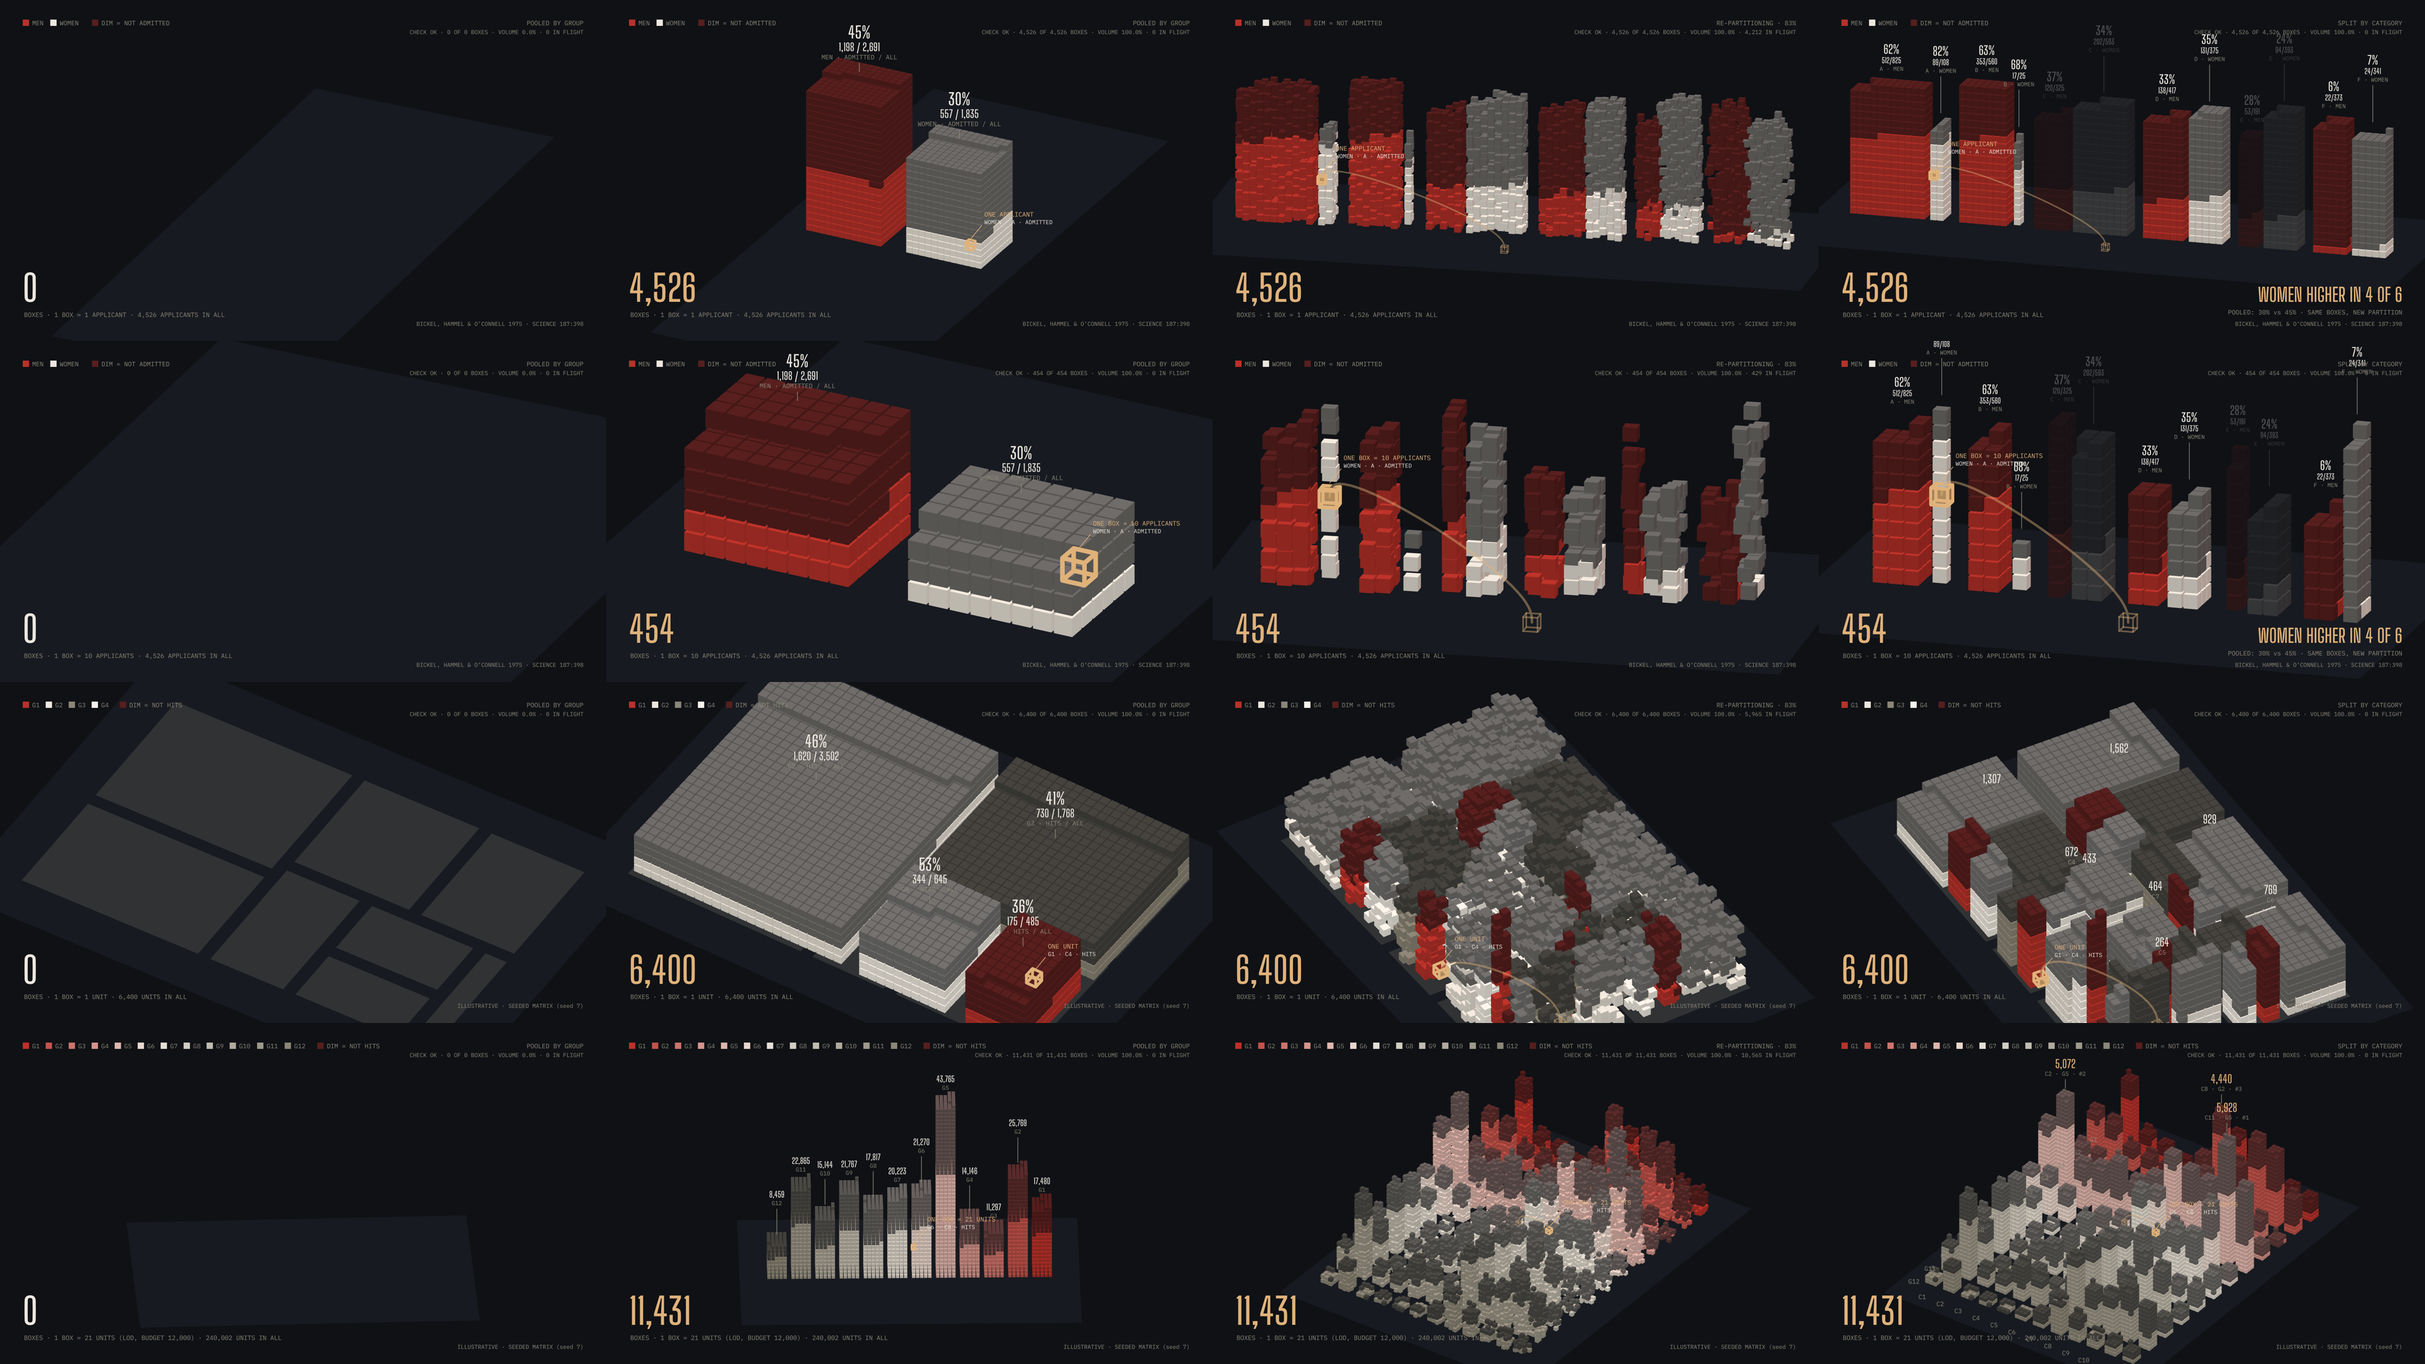
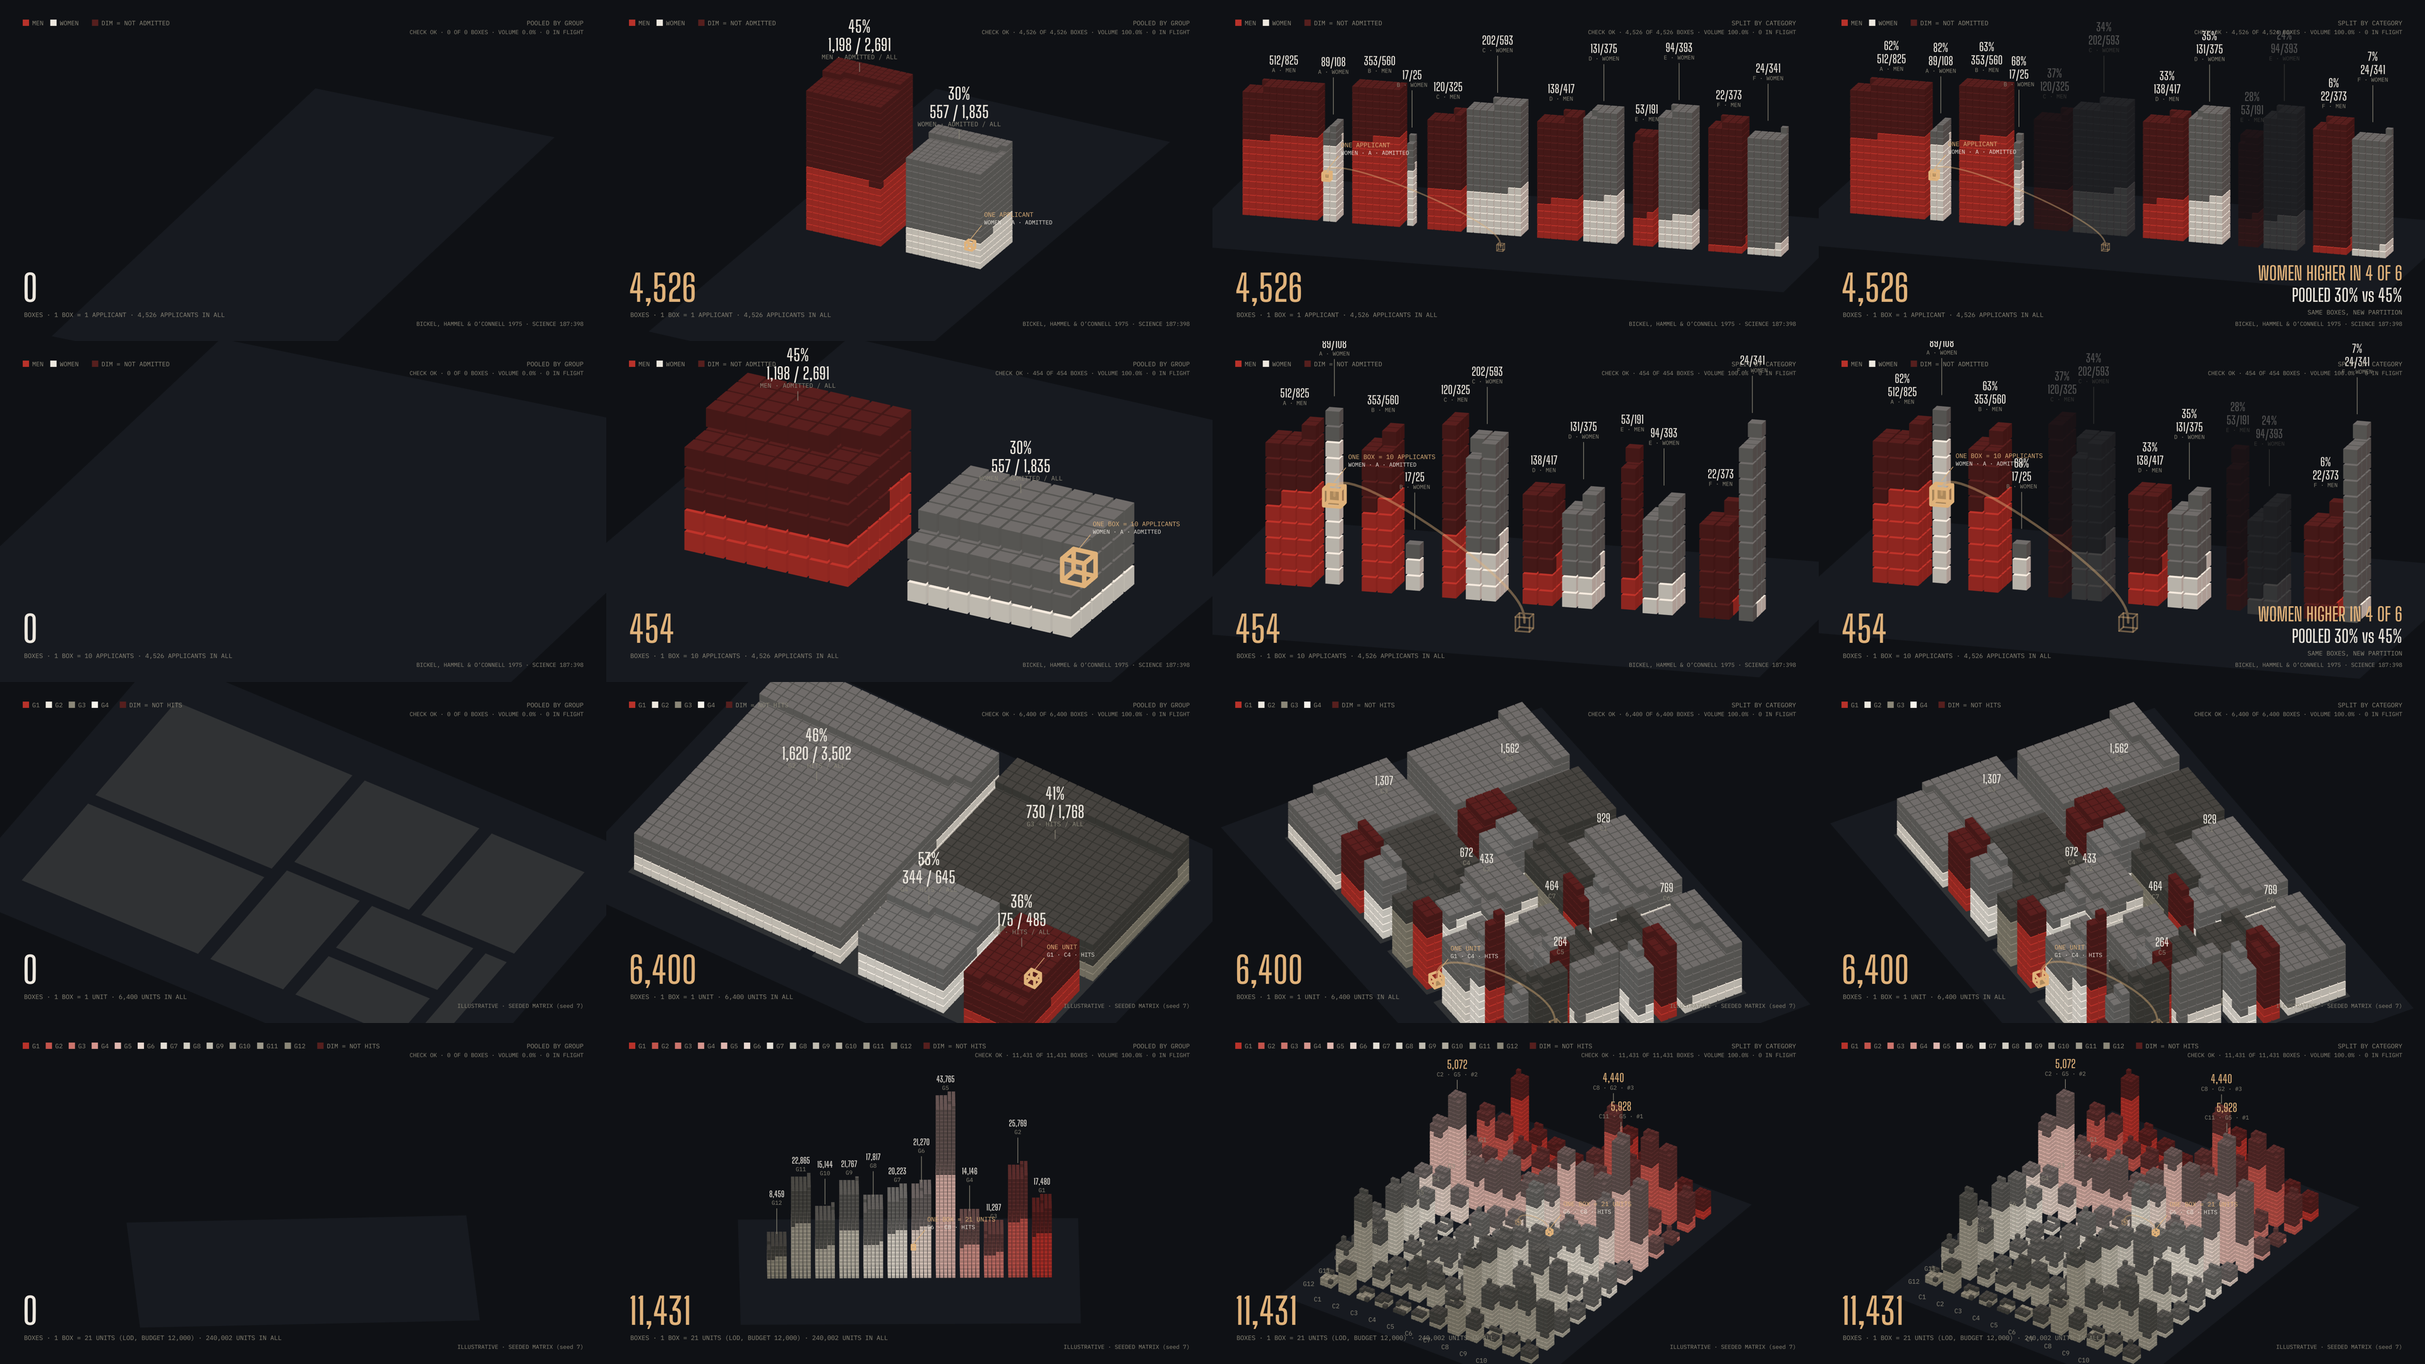
gl-stack-city: ratios land only after their counts (ratioDelay ≥ 1.5 s), counts in the larger face, pooled readout at 28; seats updated after the fix round
Claude-Session: https://claude.ai/code/session_013w2BSdYUZjAdQXTRzset9E

diff --git a/arsenal/patterns/gl-stack-city/pattern.js b/arsenal/patterns/gl-stack-city/pattern.js
@@ -356,6 +356,14 @@ void main(){
     p.resetShader();
   }
 
+  /* ratio opacities. Law: counts before ratios. The count lands at the end of its fade (pooled: arrive end + 0.03; split: move end + 0.04);
+     the ratio waits `ratioDelay` seconds more (floor 1.5 s, so the count is read first) and, for the pooled pins, the lit beat. */
+  function ratioOps(params, ph) {
+    const B = params.beats, dr = Math.max(1.5, params.ratioDelay) / params.dur;
+    const aP = Math.max(B.arrive[1] + 0.03 + dr, B.lit[1]), aS = B.move[1] + 0.04 + dr;
+    return { pooled: seg(ph.u, aP, aP + 0.03), split: seg(ph.u, aS, aS + 0.03), pooledAt: aP, splitAt: aS };
+  }
+
   /* pins: label anchors in world space, with their text and opacity (built from t only) */
   function pins(st, params, tk, ph) {
     const D = st.data, P = st.P, out = [], c = tk.color, R = st.rev;
@@ -364,17 +372,18 @@ void main(){
     const opSplit = seg(ph.u, params.beats.move[1] - 0.005, params.beats.move[1] + 0.04);
     const L = params.labels;
     if (L === 'none') return out;
+    const rt = ratioOps(params, ph);   // counts before ratios: a pin's % is a fifth element (its own opacity), later than its count
     if (opPool > 0) for (let g = 0; g < st.G; g++) {
       const n = sum(D.n[g]), h = D.hit ? sum(D.hit[g]) : null, s = st.pooled[g];
       const big = h != null ? fmt(h) + ' / ' + fmt(n) : fmt(n);
-      const rate = h != null && ph.lit >= 1 ? Math.round(100 * h / n) + '%' : '';
+      const rate = h != null && ph.lit >= 1 ? Math.round(100 * h / n) + '%' : '';   // % only after the lit beat AND ratioDelay past the count
       if (L === 'axis') { out.push({ p: top(s), lines: [[fmt(n), 'disp', 13, c.ink], [D.groups[g], 'mono', 9, c.muted]], op: opPool, dy: (g % 2) * 26 }); continue; }
-      out.push({ p: top(s), lines: [[rate, 'disp', 26, c.ink], [big, 'disp', 17, c.ink], [D.groups[g] + (h != null ? ' \u00b7 ' + D.hitWord + ' / ALL' : ''), 'mono', 10, c.muted]].filter((x) => x[0]), op: opPool, lead: true });
+      out.push({ p: top(s), lines: [[rate, 'disp', 26, c.ink, rt.pooled], [big, 'disp', 26, c.ink], [D.groups[g] + (h != null ? ' \u00b7 ' + D.hitWord + ' / ALL' : ''), 'mono', 10, c.muted]].filter((x) => x[0]), op: opPool, lead: true });
     }
     if (opSplit > 0) {
       if (L === 'slab') for (let cc = 0; cc < st.C; cc++) for (let g = 0; g < st.G; g++) {
         const n = D.n[g][cc], h = D.hit ? D.hit[g][cc] : null, s = st.split[cc][g], m = ph.rev > 0 && R && !R.cats[cc] ? 1 - 0.7 * ph.rev : 1;
-        out.push({ p: top(s), lines: [[h != null ? Math.round(100 * h / n) + '%' : fmt(n), 'disp', 19, c.ink], [h != null ? fmt(h) + '/' + fmt(n) : '', 'disp', 12, c.ink], [D.cats[cc] + ' \u00b7 ' + D.groups[g], 'mono', 9, c.muted]].filter((x) => x[0]), op: opSplit * m, dy: (g % 2) * 44 });
+        out.push({ p: top(s), lines: [[h != null ? Math.round(100 * h / n) + '%' : fmt(n), 'disp', 18, c.ink, h != null ? rt.split : 1], [h != null ? fmt(h) + '/' + fmt(n) : '', 'disp', 18, c.ink], [D.cats[cc] + ' \u00b7 ' + D.groups[g], 'mono', 9, c.muted]].filter((x) => x[0]), op: opSplit * m, dy: (g % 2) * 44 });
       }
       if (L === 'block') for (let cc = 0; cc < st.C; cc++) {
         const ss = st.split[cc], n = sum(D.n.map((r) => r[cc])), x = sum(ss.map((s) => s.cx * s.n)) / Math.max(1, sum(ss.map((s) => s.n))), z = sum(ss.map((s) => s.cz * s.n)) / Math.max(1, sum(ss.map((s) => s.n)));
@@ -412,7 +421,7 @@ void main(){
       let y = q.y - (q.flat ? -12 : 6) - (q.dy || 0);
       if (q.lead || q.dy) { const lc = p.color(c.muted); lc.setAlpha(255 * q.op); p.stroke(lc); p.strokeWeight(1); p.line(q.x + ox, q.y + oy, q.x + ox, q.y - 14 - (q.dy || 0) + oy); y -= 14; }
       const ls = q.flat ? q.lines : q.lines.slice().reverse();
-      for (const [s, font, size, col] of ls) { txt(s, q.x, y, size, col, font, q.right ? 'R' : 'C', q.op); y += q.flat ? size + 3 : -(size + 3); }
+      for (const [s, font, size, col, lo] of ls) { txt(s, q.x, y, size, col, font, q.right ? 'R' : 'C', q.op * (lo == null ? 1 : lo)); y += q.flat ? size + 3 : -(size + 3); }
     }
     // legend (colour = group, or category)
     const by = params.colorBy, names = by === 'cat' ? D.cats : by === 'none' ? [] : D.groups, pal = palette(p, tk, by === 'cat' ? st.C : st.G);
@@ -429,8 +438,10 @@ void main(){
     if (D.source) txt(D.source, W - 36, H - 24, 9, c.muted, 'mono', 'R');
     if (ph.rev > 0 && st.rev) {
       const R = st.rev;
-      txt(D.groups[R.lo] + ' HIGHER IN ' + R.count + ' OF ' + st.C, W - 36, H - 62, 30, c.accent, 'disp', 'R', ph.rev);
-      txt('POOLED: ' + Math.round(100 * R.pooledLo) + '% vs ' + Math.round(100 * R.pooledHi) + '% · SAME BOXES, NEW PARTITION', W - 36, H - 42, 10, c.muted, 'mono', 'R', ph.rev);
+      // results in the display face: the headline (30) over the pooled pair (28, the secondary size); the caption is not a result
+      txt(D.groups[R.lo] + ' HIGHER IN ' + R.count + ' OF ' + st.C, W - 36, H - 96, 30, c.accent, 'disp', 'R', ph.rev);
+      txt('POOLED ' + Math.round(100 * R.pooledLo) + '% vs ' + Math.round(100 * R.pooledHi) + '%', W - 36, H - 62, 28, c.ink, 'disp', 'R', ph.rev);
+      txt('SAME BOXES, NEW PARTITION', W - 36, H - 42, 10, c.muted, 'mono', 'R', ph.rev);
     }
     p.pop();
   }
@@ -452,8 +463,9 @@ void main(){
       pooledSort: 'hit-cat',      // hit-cat | cat-hit | hit-seeded
       colorBy: 'group',           // group | cat | none
       dim: 0.58, maskDim: 0.78,   // misses mixed toward bg; masked categories at the reveal
-      dur: 14,
-      beats: { arrive: [0.03, 0.24], lit: [0.25, 0.31], move: [0.42, 0.72], reveal: [0.82, 0.88] },
+      dur: 18,                    // longer than 14 so each % can wait ratioDelay after its count and still be read before the next beat
+      ratioDelay: 1.5,            // s a count holds before its % appears (floor 1.5: counts before ratios)
+      beats: { arrive: [0.03, 0.24], lit: [0.25, 0.31], move: [0.52, 0.74], reveal: [0.90, 0.95] },
       arrW: 0.04, drop: 60, stagger: 0.25, lift: 22, orderMix: 0.5,
       az: [28, 104], elev: [26, 16], drift: 6, fit: [1.22, 1.0], lookY: 0.45,
       reveal: 'reversal',         // reversal | none
@@ -472,7 +484,7 @@ void main(){
     check(t, st, params) { return Object.assign({ t }, check(st, params, phase(st, params, t))); },
     count(t, st, params) {
       const ph = phase(st, params, t);
-      return { boxes: ph.boxes, k: st.k, unitsApprox: Math.min(st.units, ph.boxes * st.k), units: st.units, phase: ph.name, move: ph.move, reversals: st.rev ? st.rev.count : null };
+      return { boxes: ph.boxes, k: st.k, unitsApprox: Math.min(st.units, ph.boxes * st.k), units: st.units, phase: ph.name, move: ph.move, ratioAt: ratioOps(params, ph), reversals: st.rev ? st.rev.count : null };
     },
     async setup(p, ctx, params) {
       const st = { seed: ctx.seed == null ? 7 : ctx.seed };
@@ -494,7 +506,8 @@ void main(){
       const pl = pins(st, params, tk, ph).concat(tg).map((q) => { const v = p.worldToScreen(new p5.Vector(q.p[0], q.p[1], q.p[2])); return Object.assign(q, { x: v.x, y: v.y }); });
       const ck = params.checkLine ? check(st, params, ph) : null;
       hud(p, st, params, tk, ph, pl, ck);
-      return { boxes: ph.boxes, k: st.k, phase: ph.name, move: +ph.move.toFixed(3), check: ck && ck.ok };
+      const ro = ratioOps(params, ph);
+      return { boxes: ph.boxes, k: st.k, phase: ph.name, move: +ph.move.toFixed(3), check: ck && ck.ok, ratio: { pooled: +ro.pooled.toFixed(3), split: +ro.split.toFixed(3) } };
     },
   };
   A.patterns[ID] = PAT;

diff --git a/arsenal/patterns/gl-stack-city/card.md b/arsenal/patterns/gl-stack-city/card.md
@@ -24,7 +24,7 @@ and k > 1 (small cells round to 1 box, see pitfalls); occlusion-aware labels (pi
 - `size` 3-12, `gap` 0.4-2 (pitch = size + gap); `foot` [4-16, 4-16] pooled cells; `slabFoot` [2-6, 2-6]; `layers` 8-30; `depth` 2-6
 - `slabGap` 6-30, `pairGap` 2-12, `groupGap` 10-60; treemap `cityLayers` 3-12, `slack` 1.1-1.6, `aspect` 0.7-1.6, `street` 4-20
 - `pooledSort` hit-cat | cat-hit | hit-seeded; `colorBy` group | cat | none; `dim` 0.4-0.75; `maskDim` 0.5-0.9
-- K `dur` 8-40 s; K `beats` {arrive, lit, move, reveal} fractions of dur; K `stagger` 0-0.6 (0.25: minimal, each box still on its own path)
+- K `dur` 8-40 s (default 18); K `ratioDelay` 1.5-5 s (floor 1.5); K `beats` {arrive, lit, move, reveal} fractions of dur (default move [0.52, 0.74], reveal [0.90, 0.95]); K `stagger` 0-0.6 (0.25: minimal, each box still on its own path)
 - K `lift` 0-40 (arc height); `drop` 0-100 (arrival fall); `arrW` 0.01-0.1; K `orderMix` 0-1 (0 seeded order, 1 category order)
 - K `az` [deg, deg], K `elev` [deg, deg], `drift` 0-10 deg, `fit` [0.8-1.4, 0.8-1.4], `lookY` 0.3-0.6
 - `reveal` reversal | none (auto: groups with the highest and lowest pooled rate; categories where the low group wins)
@@ -45,6 +45,12 @@ and k > 1 (small cells round to 1 box, see pitfalls); occlusion-aware labels (pi
 (keyed orbit set every frame, no slerp needed for one arc); [[frontier-2026]] S10 S275.
 
 ## Pitfalls and WARNs
+- Counts before ratios (fixed after the seat's REVISE): a pin's count lands first and its % waits `ratioDelay` s (floor 1.5) more, as a line with its own
+  opacity; pooled also waits for the lit beat. Pooled pins: % 26 and count 26 (equal faces); split slab pins: % 18 and count 18. The split % lands
+  at move end + 0.04 + ratioDelay, so the reveal beat sits after it (default 0.90). A film that shortens `dur` must keep the beats in order
+  (`count(t).ratioAt` returns the u at which each % appears); at dur 14 the pooled % has under 1 s to be read.
+- Results never in the smallest face: the pooled pair "POOLED 30% vs 45%" is now `disp` 28 (headline 30 above it); the 10 px caption
+  "SAME BOXES, NEW PARTITION" is not a result.
 - Per-cell rounding at k > 1: boxes = round(n / k), min 1 for n > 0; `unitsResidual` (boxes x k - units) is reported by check(); labels always print exact units.
 - User vertex properties: `geo.vertexProperty()` pushes with spread (stack overflow above ~100k values); the module creates the
   property with `_userVertexPropertyHelper` and assigns `geo[name + 'Src']` directly. Private p5 API: re-test on a p5 upgrade.
@@ -53,23 +59,25 @@ and k > 1 (small cells round to 1 box, see pitfalls); occlusion-aware labels (pi
 - The tag outline is drawn after a depth clear so it shows through slabs: it reads as "inside here", by design.
 - Labels: slab mode staggers odd groups 44 px; tiny slabs (Berkeley B women, 25) still crowd. Axis mode labels names, not every bar.
 - Synthetic data (variants 3-4) prints its source line as ILLUSTRATIVE; a film feeds its own matrix and source.
+- WARN pins (still open, staging not law): in `bars-2x6` the 12 split pins at 18 px crowd where slabs are small (B women, C/D/E pairs overlap their neighbours' % at t = 14.4);
+  the 34 %/35 %/24 % pins can touch the CHECK line (turn `checkLine` off in a film). The tag label "ONE BOX = k" is still buried in the treemap and big city.
 - WARN framing: in `bars-2x6` the right-most split label can touch the check line; in `big-12x12-lod` the city's front corner
   runs under the count readout and the category axis labels at t = end. Retune `fit`/`lookY` per film, or turn `checkLine` off.
 - WARN light packs: misses are mixed toward a white bg, so dim reads as pale (swiss-grid); fine, but say DIM in the legend (it does).
 - Fonts: the pack's disp/mono from arsenal/fonts/fonts.js; a family missing there falls back (st.faceNote says which).
 
-## Cost (s/frame, 960x540 x2, SwiftShader, readPixels-synced, mean/max of 6 frames; machine shared with other lanes)
+## Cost (s/frame, 960x540 x2, SwiftShader, readPixels-synced, mean/max of 6 frames; machine less loaded than the first measurement, re-run after the ratio fix: the earlier 0.47/0.76/0.44 were under load)
 | variant | boxes | vertices | k | mean | max | setup |
 |---|---|---|---|---|---|---|
-| bars-2x6 | 4,526 | 90,520 | 1 | 0.47 | 0.70 | 0.26 s |
-| bars-2x6-k10 (cheap) | 454 | 9,080 | 10 | 0.27 | 0.39 | 0.01 s |
-| treemap-4x8 (heaviest) | 6,400 | 128,000 | 1 | 0.76 | 1.11 | 0.29 s |
-| big-12x12-lod | 11,431 | 228,620 | 21 (LOD) | 0.44 | 0.53 | 0.28 s |
+| bars-2x6 | 4,526 | 90,520 | 1 | 0.20 | 0.26 | 0.26 s |
+| bars-2x6-k10 (cheap) | 454 | 9,080 | 10 | 0.12 | 0.17 | 0.01 s |
+| treemap-4x8 (heaviest) | 6,400 | 128,000 | 1 | 0.28 | 0.35 | 0.29 s |
+| big-12x12-lod | 11,431 | 228,620 | 21 (LOD) | 0.21 | 0.28 | 0.28 s |
 
 Fill is the cost (large faces near the camera), not vertex count: the treemap's flat roofs fill the frame. Labels (p5 WEBGL
-text) add ~0.05-0.1 s. shoot.mjs ms_per_frame is honest here (the demo syncs with a 1-px readPixels): 548 dark, 598 swiss-grid.
-Purity identical on all 4 variants, both packs. check(t) sweep (61 samples per variant, every frame of the move) all OK;
-in report.json under `check`, `cost`, `stats`. Units residual from rounding: 0, 14 (k10), 0, 49 of 240,002 (big).
+text) add ~0.05-0.1 s. shoot.mjs ms_per_frame is honest here (the demo syncs with a 1-px readPixels): 221 dark, 228 swiss-grid (times 0,0.4,0.8,1).
+Purity identical on all 4 variants, both packs. check(t) sweep (61 samples per variant, over dur 18) all OK;
+(sweep and bench run via the demo's checkSweep and bench; shots/report.json holds purity and errors). Units residual from rounding: 0, 14 (k10), 0, 49 of 240,002 (big).
 
 ## Renderer / fallback
 `webgl`. If user vertex properties break: pack homes into uv + vertexColors as simpsons-3d does (lattice-recovered centres).

diff --git a/arsenal/SEATS-GL.md b/arsenal/SEATS-GL.md
@@ -199,3 +199,11 @@ label solver is used by no lane. The 100k layer cannot re-partition. The flagshi
 lets a brand change the numbers. DoF and instancing exist in two and four forms. Baked AO, the reframe contract and lens-accumulation
 DoF are absent. None of the thirteen lanes has yet been hosted in a kit2 film and gated, so the frontier is proven on contact sheets,
 not on a film.
+
+
+## After the fix round (2026-10-10, orchestrator)
+- gl-stack-city: REVISE → SHIP-WITH-NOTES. Every % now lands ≥ 1.5 s after its count (`ratioDelay`), counts in the larger
+  or equal face, the pooled readout at disp 28; check(t) OK on 61 samples per variant; purity identical; 0.12–0.28 s/frame.
+  Open: split pins crowd at 18 px; the tag label is buried in the treemap and big variants.
+- scale-anchor: REVISE → SHIP. The count at any t is the same under every pack (zoom timing from the module's own `ease`,
+  not `tokens.tempo`); pairs recorded in the card.
